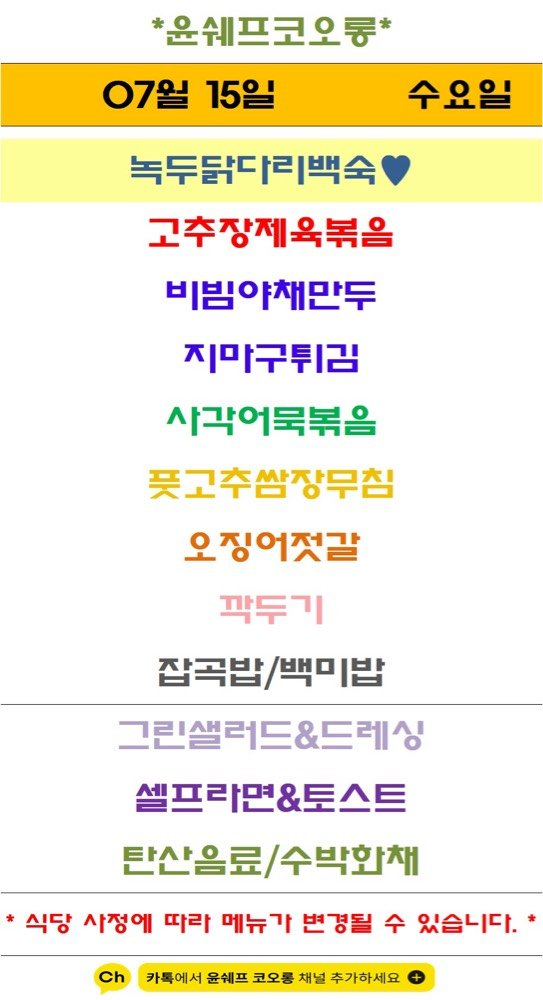
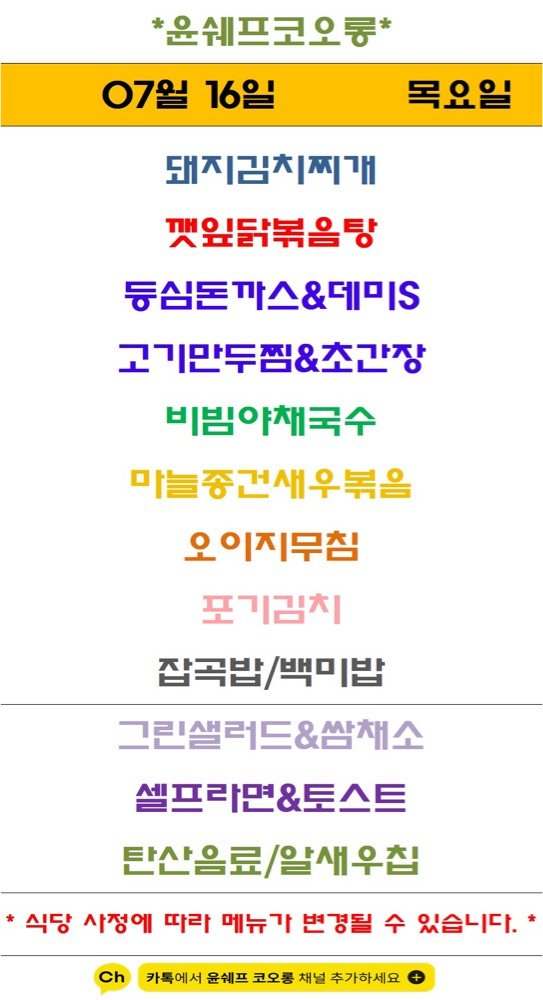
Update menu board assets

diff --git a/guro-menu/index.html b/guro-menu/index.html
@@ -32,7 +32,7 @@
   </header>
   <section class="meta">
     <div><small>기준 날짜</small><strong>2026년 7월 16일 목요일</strong></div>
-    <div><small>최종 갱신</small><strong>2026-07-16 09:14:29</strong></div>
+    <div><small>최종 갱신</small><strong>2026-07-16 09:18:58</strong></div>
     <div><small>등록 식당</small><strong>5개</strong></div>
   </section>
   <div class="notice">공개 카카오 채널의 메뉴 이미지를 자동 수집하고 OCR로 정리합니다. 텍스트에 오타가 있을 수 있으니 식단 이미지를 함께 확인해 주세요.</div>
@@ -103,8 +103,8 @@
           <a class="channel" href="https://pf.kakao.com/_Xxhxkhs" target="_blank" rel="noopener">원본 채널</a>
         </div>
         <img class="menu-image" src="./images/yoon-chef-kolon.png" alt="윤쉐프 코오롱 식단 이미지" loading="lazy">
-        <p class="message">최신 공개 식단 이미지의 텍스트입니다. 날짜는 원본 이미지를 확인해 주세요.</p>
-        <ul><li>고추장제육볶음</li><li>비빔야재만두</li><li>지마구튀김</li><li>사각어묵볶음</li><li>잡곡밥/백미밥</li><li>그린샐러드&amp;드레싱</li><li>셀프라면&amp;토스트</li><li>탄산음료/수박화재</li></ul>
+        
+        <ul><li>댄지김치찌개</li><li>고기만두찜&amp;조관장</li><li>비빔야재국수</li><li>오이지무침</li><li>깝곡밥/벽미밥</li><li>그린샐러드&amp;쌈재소</li><li>셀프라면&amp;토스트</li><li>탄산음료/알새우집</li></ul>
       </article>
   </section>
   <section class="seo" aria-label="검색 정보">한신IT타워 구내식당 자연푸드 구내식당 더이츠푸드 벽산더이룸 윤쉐프 코오롱 한신IT타워 벽산디지털밸리7차 대륭포스트타워1차 벽산디지털밸리1차 코오롱싸이언스밸리1차 서울 구로구 디지털로 272 한신IT타워 지하1층 서울 구로구 디지털로33길 50 벽산디지털밸리7차 지하1층 서울 구로구 디지털로 288 대륭포스트타워1차 지하1층 서울 구로구 디지털로27길 24 벽산디지털밸리1차 지하1층 서울 구로구 디지털로34길 43 코오롱싸이언스밸리1차 지하1층</section>

diff --git a/menu-today/index.html b/menu-today/index.html
@@ -209,7 +209,7 @@
 
     <section class="meta-bar">
       <div class="meta-card"><div class="meta-label">기준 날짜</div><div class="meta-value">2026년 7월 16일 목요일</div></div>
-      <div class="meta-card"><div class="meta-label">최종 가져온 시간</div><div class="meta-value">2026-07-16 09:14:19</div></div>
+      <div class="meta-card"><div class="meta-label">최종 가져온 시간</div><div class="meta-value">2026-07-16 09:18:47</div></div>
       <div class="meta-card"><div class="meta-label">확인 완료</div><div class="meta-value">9개 식당</div></div>
       <div class="meta-card"><div class="meta-label">준비중</div><div class="meta-value">3개 채널</div></div>
     </section>
@@ -255,7 +255,7 @@
             <div class="sub">디폴리스지식산업센터</div>
           </div>
         </div>
-        <div class="menu-inline-image"><img src="./images/dipolis.png" alt="디폴리스 구내식당 식단 이미지"></div><ul><li>oa 서녀</li><li>들 잡곡밥 / 흰쌀밥</li><li>eS 간장 불고기</li><li>매콤 볶음 우동</li><li>몰 고기 무구</li><li>오이 양파 무침</li><li>씩단은 사정에 따라 변경될 수 있습니다 개</li><li>잡곡밥 / 흰쌀밥</li><li>돈육 간장 불</li><li>매콤</li><li>부을</li><li>기 무국</li><li>야채 샐러드</li><li>김치</li><li>산,김치:국내(배추.무우: :국내</li></ul>
+        <div class="menu-inline-image"><img src="./images/dipolis.png" alt="디폴리스 구내식당 식단 이미지"></div><div class="menu-section"><div class="menu-section-title">중식</div><ul><li>잡곡밥 / 햅쌀밥</li><li>양배추 야채 샐러드</li><li>겉절이 김치</li><li>탄산음료</li></ul></div>
       </article>
 
       <article class="restaurant-card">
